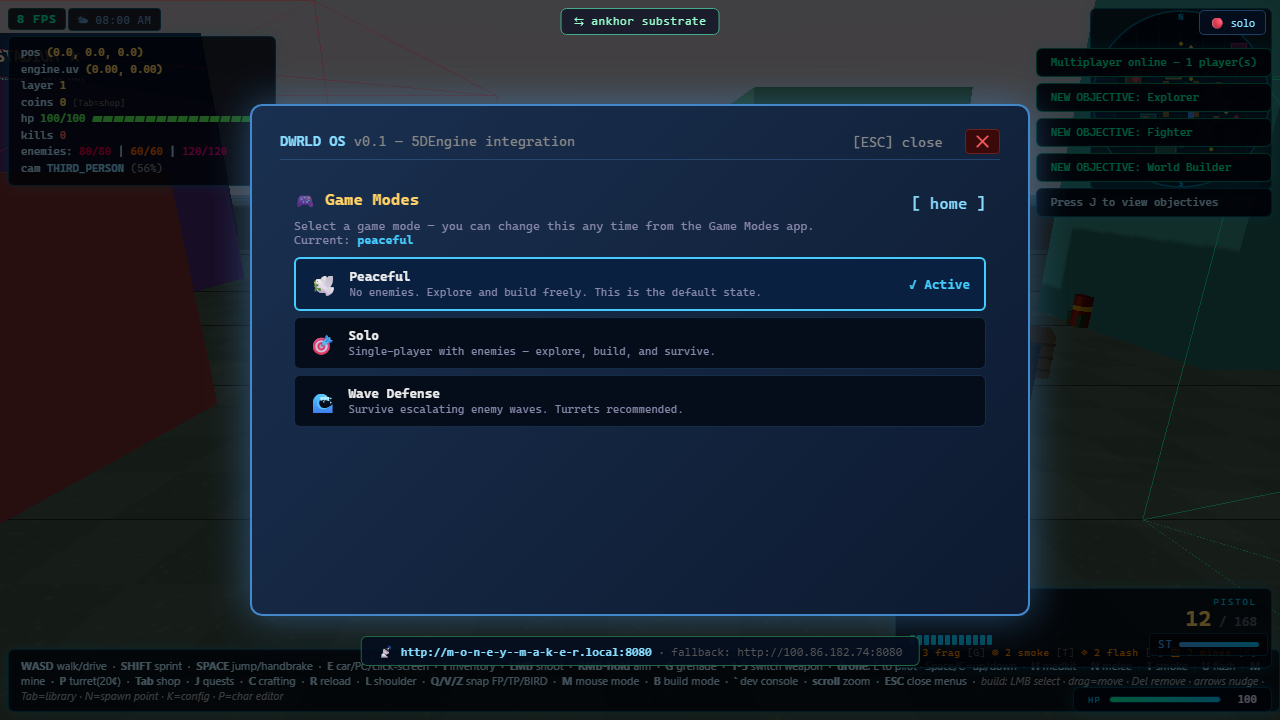
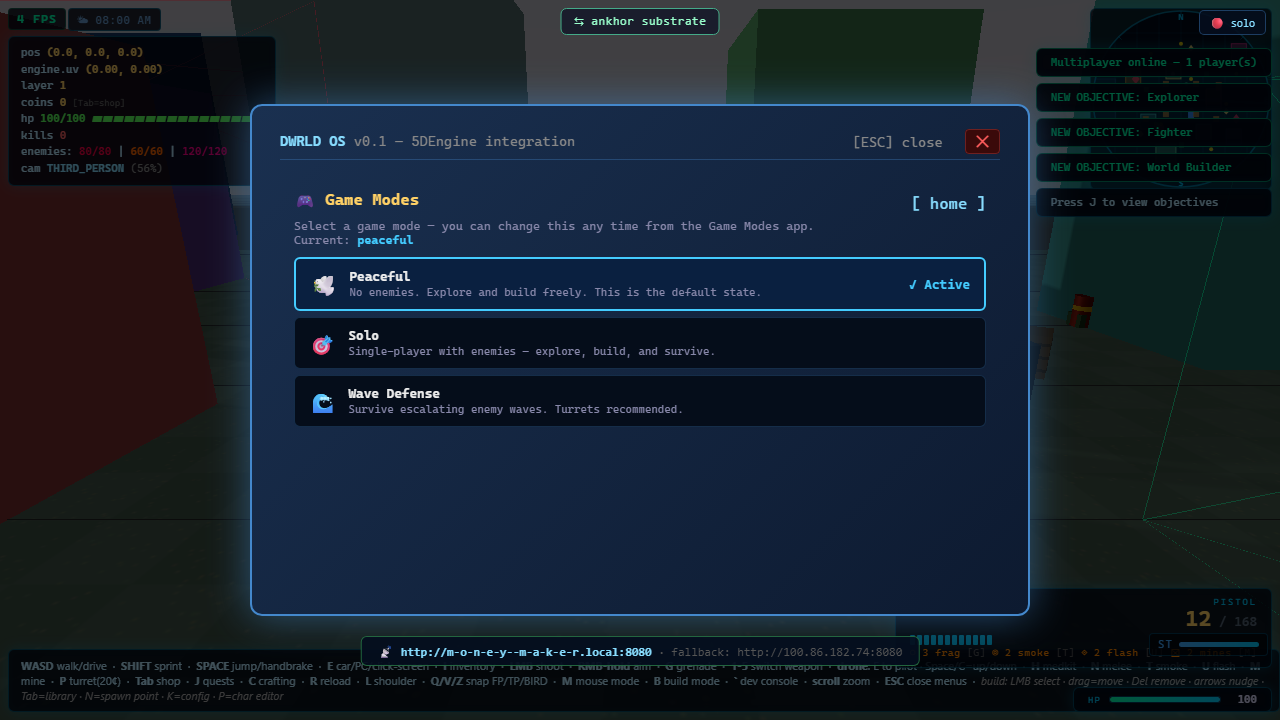
iter 1049: enemy adapter — syncs AI position to mesh

Changed region(s): [[0.1562, 0.0, 0.4375, 0.1528], [0.5625, 0.0, 0.7812, 0.1528], [0.0, 0.0306, 0.0625, 0.1222]]

diff --git a/src/ankhor/enemy_adapter.js b/src/ankhor/enemy_adapter.js
@@ -1,0 +1,25 @@
+/**
+ * Enemy Render Adapter — updates enemy mesh positions from AI scaffold.
+ * The enemy_ai_scaffold facet mutates en.u/en.v directly.
+ * This adapter syncs those to the Three.js mesh positions.
+ */
+
+export function enemyRenderAdapter(scene, registry, dt) {
+  const enemies = registry.byKind?.("enemy") || [];
+  for (const en of enemies) {
+    const fd = registry.facetData(en.id, "mesh");
+    if (!fd?.threeObj) continue;
+
+    // Read position from AI scaffold's direct mutations
+    const u = en._u ?? en.u ?? 0;
+    const v = en._v ?? en.v ?? 0;
+    const y = en._y ?? en.y ?? 0;
+
+    fd.threeObj.position.set(u, y, v);
+
+    // Update heading
+    if (typeof en.heading === "number") {
+      fd.threeObj.rotation.y = en.heading;
+    }
+  }
+}

diff --git a/src/ankhor/boot.js b/src/ankhor/boot.js
@@ -10,6 +10,7 @@ import { installMeshHandler }    from "./install_mesh_handler.js";
 import { composeFromRoot, facetMap } from "./compose.js";
 import { applyWorldParams }      from "./world_params.js";
 import { heroRenderAdapter }   from "./hero_adapter.js";
+import { enemyRenderAdapter }  from "./enemy_adapter.js";
 import { envRenderAdapter }    from "./env_adapter.js";
 import { requireParam as need }  from "./require_param.js";
 
@@ -136,6 +137,8 @@ export async function boot({ canvas, dataDir = "./data/", rootId = "root", onRea
     catch (e) { console.error("[boot] envAdapter error (non-fatal):", e); }
     try { console.log("[boot] calling heroRenderAdapter..."); heroRenderAdapter(scene, registry, dt); console.log("[boot] heroRenderAdapter OK"); }
     catch (e) { console.error("[boot] heroAdapter error (non-fatal):", e); }
+    try { enemyRenderAdapter(scene, registry, dt); }
+    catch (e) { console.error("[boot] enemyAdapter error (non-fatal):", e); }
     try { updateCamera(cam, cp, registry, now); }
     catch (e) { console.error("[boot] updateCamera error (non-fatal):", e); }
     try { renderer.render(scene, cam); }